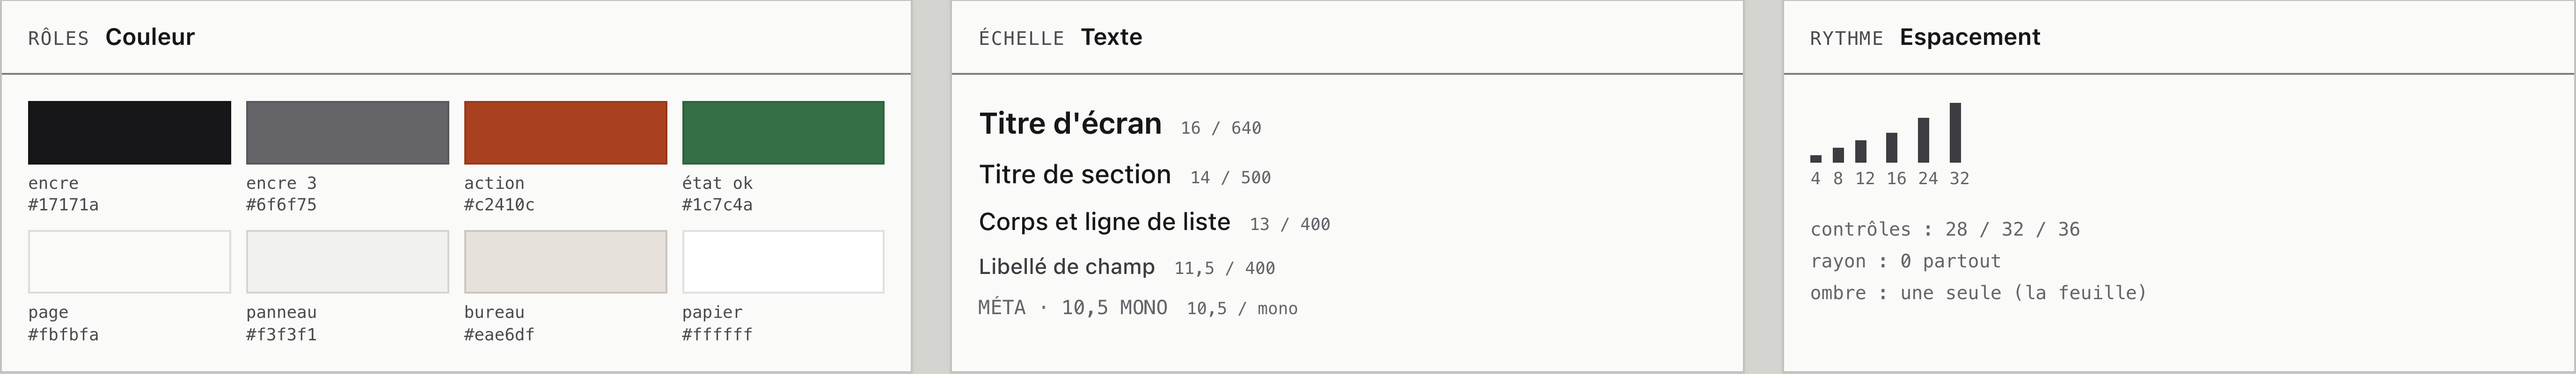
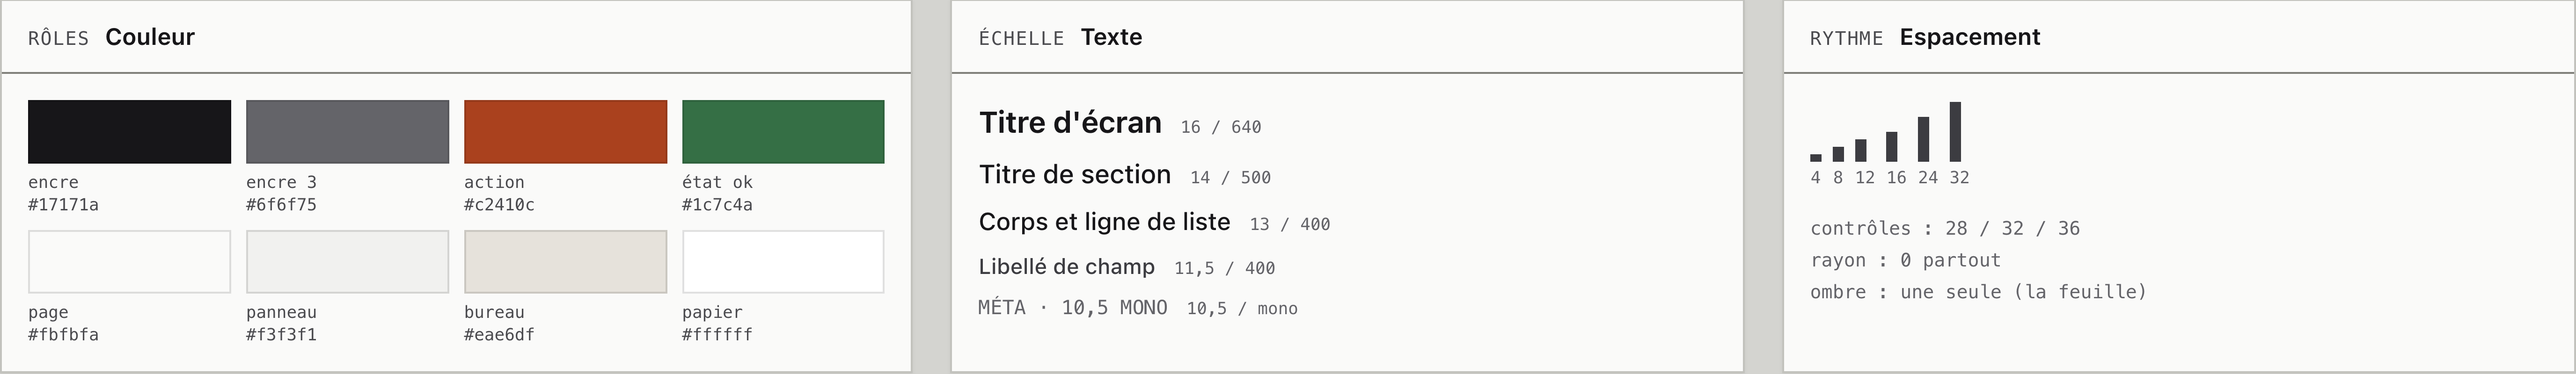
Maquette la capture depuis la barre et explique la note
- Écran 3 : fenêtre 380 × 560 en trois états (page supportée, refusée,
  collection vide), capturer en primaire, confidentialité permanente,
  destructif rangé dans un menu.
- barre-qualite-ui.md §6 : décomposition des points perdus, ancrages,
  et pourquoi la note ne juge pas le travail fourni.

diff --git a/docs/design-options/mockup/console-revisee.html b/docs/design-options/mockup/console-revisee.html
@@ -433,6 +433,102 @@ body {
 }
 .status .mono { font-size: 10px; }
 
+
+/* --- Fenêtre depuis la barre d'outils (380 × 560) --- */
+
+.pops { display: grid; grid-template-columns: repeat(3, 380px); gap: 20px; padding: 16px 32px 0; }
+.pop-wrap { display: flex; flex-direction: column; gap: 8px; }
+.pop-cap { font-size: 12px; color: #45454a; }
+.pop-cap b { color: #17171a; font-weight: 620; }
+.pop {
+  position: relative;
+  width: 380px; height: 560px;
+  display: flex; flex-direction: column;
+  background: var(--bg);
+  border: 1px solid var(--line-strong);
+  box-shadow: 0 1px 2px rgba(0,0,0,.10), 0 16px 34px rgba(0,0,0,.13);
+}
+.pop__bar {
+  display: flex; align-items: center; gap: 8px;
+  height: 48px; padding: 0 10px 0 12px;
+  border-bottom: 1px solid var(--line-strong);
+  flex: none;
+}
+.pop__mark { width: 18px; height: 18px; display: block; }
+.pop__name {
+  display: inline-flex; align-items: center; gap: 4px;
+  height: 26px; padding: 0 4px;
+  border: 1px solid transparent; background: transparent;
+  font: 600 12.5px/1 var(--font); color: var(--ink); cursor: pointer;
+}
+.pop__count {
+  margin-left: auto;
+  height: 20px; padding: 0 7px;
+  display: inline-flex; align-items: center;
+  background: var(--surface-2); color: var(--ink-2);
+  font: 500 10px/1 var(--mono); letter-spacing: .02em;
+}
+.pop__capture {
+  flex: none;
+  display: flex; flex-direction: column; gap: 7px;
+  padding: 11px 12px 12px;
+  border-bottom: 1px solid var(--line-strong);
+}
+.pop__eyebrow { font: 600 9.5px/1 var(--mono); letter-spacing: .09em; color: var(--ink-3); }
+.pop__page { display: flex; flex-direction: column; gap: 1px; min-width: 0; }
+.pop__title {
+  font-size: 12.5px; font-weight: 600; line-height: 1.25;
+  overflow: hidden; text-overflow: ellipsis; white-space: nowrap;
+}
+.pop__url { font: 400 10px/1.3 var(--mono); color: var(--ink-3); overflow: hidden; text-overflow: ellipsis; white-space: nowrap; }
+.pop__acts { display: flex; gap: 6px; }
+.pop__acts .btn--primary { flex: 1; height: 32px; }
+.pop__acts .btn--outline { height: 32px; }
+.pop__notice {
+  display: flex; gap: 8px;
+  padding: 8px 10px;
+  border-left: 2px solid var(--ink);
+  background: var(--surface);
+}
+.pop__notice i { flex: none; width: 14px; height: 14px; margin-top: 1px; color: var(--ink); }
+.pop__notice div { display: flex; flex-direction: column; gap: 2px; }
+.pop__notice b { font-size: 11.5px; font-weight: 620; }
+.pop__notice span { font-size: 10.5px; color: var(--ink-3); line-height: 1.35; }
+.pop__manual { display: flex; gap: 6px; }
+.pop__manual .input { height: 30px; font-size: 11.5px; }
+.pop__manual .btn { height: 30px; flex: none; }
+.pop__manual .pop__iconbtn { width: 32px; padding: 0; }
+.pop__list { flex: 1; min-height: 0; overflow: hidden; }
+.pop__row {
+  display: grid; grid-template-columns: minmax(0, 1fr) auto;
+  align-items: center; gap: 8px;
+  height: 44px; padding: 0 6px 0 12px;
+  border-top: 1px solid var(--line);
+}
+.pop__row:first-child { border-top: 0; }
+.pop__row.is-hover { background: var(--surface); }
+.pop__rowmain { display: flex; flex-direction: column; gap: 1px; min-width: 0; }
+.pop__rowtitle { font-size: 12px; font-weight: 500; overflow: hidden; text-overflow: ellipsis; white-space: nowrap; }
+.pop__rowhost { font: 400 10px/1.2 var(--mono); color: var(--ink-3); overflow: hidden; text-overflow: ellipsis; white-space: nowrap; }
+.pop__row .iconbtn { opacity: 0; }
+.pop__row:hover .iconbtn, .pop__row.is-hover .iconbtn, .pop__row .iconbtn:focus-visible { opacity: 1; }
+.pop__empty {
+  flex: 1; display: flex; flex-direction: column; align-items: center; justify-content: center;
+  gap: 8px; padding: 20px 26px; text-align: center;
+}
+.pop__empty-t { font-size: 13px; font-weight: 620; }
+.pop__empty-b { font-size: 11px; color: var(--ink-3); line-height: 1.4; max-width: 30ch; }
+.pop__empty .btn { height: 30px; }
+.pop__foot {
+  flex: none;
+  display: flex; align-items: center; justify-content: space-between; gap: 8px;
+  height: 40px; padding: 0 10px 0 12px;
+  border-top: 1px solid var(--line-strong);
+}
+.pop__link { font-size: 10.5px; color: var(--ink-3); text-decoration: underline; text-underline-offset: 2px; }
+.pop__promise { font: 400 9.5px/1 var(--mono); color: var(--ink-3); }
+.pop__foot .btn { height: 26px; padding: 0 8px; font-size: 11px; }
+
 /* --- Spécimens et fondations (hors écrans) --- */
 
 .specimens { display: grid; grid-template-columns: repeat(3, 1fr); gap: 20px; padding: 18px 32px 0; }
@@ -495,6 +591,8 @@ body {
     <symbol id="i-plus" viewBox="0 0 16 16"><path d="M8 4v8M4 8h8"/></symbol>
     <symbol id="i-down" viewBox="0 0 16 16"><path d="M8 3v10M4 9l4 4 4-4"/></symbol>
     <symbol id="i-printer" viewBox="0 0 16 16"><path d="M4 6V3h8v3M4 12H3V7h10v5h-1M5 9h6v4H5z"/></symbol>
+    <symbol id="i-arrow-up" viewBox="0 0 16 16"><path d="M5 11L11 5M6 5h5v5"/></symbol>
+    <symbol id="i-info" viewBox="0 0 16 16"><circle cx="8" cy="8" r="6"/><path d="M8 7.2v4M8 4.8v.6"/></symbol>
     <symbol id="i-grip" viewBox="0 0 16 16"><circle cx="6" cy="5" r=".8"/><circle cx="10" cy="5" r=".8"/><circle cx="6" cy="8" r=".8"/><circle cx="10" cy="8" r=".8"/><circle cx="6" cy="11" r=".8"/><circle cx="10" cy="11" r=".8"/></symbol>
   </defs>
 </svg>
@@ -832,6 +930,128 @@ body {
     </ol>
   </section>
 
+
+  <!-- ============================================================ -->
+  <!-- ÉCRAN 3 — FENÊTRE DEPUIS LA BARRE                            -->
+  <!-- ============================================================ -->
+  <section class="spec">
+    <div class="spec__caption">
+      <span class="spec__num">ÉCRAN 3 / 3</span>
+      <span class="spec__title">La capture depuis la barre — fenêtre 380 × 560 <small>· page supportée, page refusée, collection vide</small></span>
+    </div>
+
+    <p class="page__lead" style="padding:10px 32px 0;font-size:12px;color:#45454a;max-width:110ch">
+      Le cadre montre la fenêtre à sa taille <b>maximale</b> (380 × 560) : dans Chrome, une fenêtre d'extension se dimensionne à son contenu, donc un état à six liens serait plus court. Les trois états sont rendus au même cadre pour être comparés.
+    </p>
+
+    <div class="pops">
+
+      <!-- A. Page supportée -->
+      <div class="pop-wrap">
+        <div class="pop-cap"><b>A — Page supportée.</b> Le geste par défaut : capturer.</div>
+        <div class="pop" id="pop-a">
+          <div class="pop__bar">
+            <img class="pop__mark" src="../../../src/extension-src/icons/icon-32.png" width="18" height="18" alt="">
+            <button class="pop__name">Mes liens <svg class="i i--12"><use href="#i-chevron"/></svg></button>
+            <span class="pop__count mono">6 liens</span>
+          </div>
+          <div class="pop__capture">
+            <span class="pop__eyebrow">PAGE COURANTE</span>
+            <span class="pop__page">
+              <span class="pop__title">Un article de fond sur la question</span>
+              <span class="pop__url">exemple.fr/un-article-assez-long-pour-compter</span>
+            </span>
+            <div class="pop__acts">
+              <button class="btn btn--primary">Ajouter cette page <kbd>⌘↵</kbd></button>
+              <button class="btn btn--outline">Application <svg class="i i--12"><use href="#i-arrow-up"/></svg></button>
+            </div>
+          </div>
+          <div class="pop__list" id="pop-list-a"></div>
+          <div class="pop__foot">
+            <a class="pop__link" href="#">Confidentialité</a>
+            <button class="btn btn--quiet">Exporter <svg class="i i--12"><use href="#i-chevron"/></svg></button>
+          </div>
+        </div>
+      </div>
+
+      <!-- B. Page refusée -->
+      <div class="pop-wrap">
+        <div class="pop-cap"><b>B — Page refusée.</b> Une cause, un chemin manuel, des actions vivantes.</div>
+        <div class="pop" id="pop-b">
+          <div class="pop__bar">
+            <img class="pop__mark" src="../../../src/extension-src/icons/icon-32.png" width="18" height="18" alt="">
+            <button class="pop__name">Mes liens <svg class="i i--12"><use href="#i-chevron"/></svg></button>
+            <span class="pop__count mono">6 liens</span>
+          </div>
+          <div class="pop__capture">
+            <span class="pop__eyebrow">PAGE COURANTE</span>
+            <div class="pop__notice">
+              <svg class="i"><use href="#i-info"/></svg>
+              <div>
+                <b>Cette page ne peut pas être enregistrée.</b>
+                <span>Les pages internes du navigateur ne sont pas lisibles par l'extension.</span>
+              </div>
+            </div>
+            <div class="pop__manual">
+              <input class="input" placeholder="Coller un lien…" aria-label="Coller un lien">
+              <button class="btn btn--primary">Ajouter</button>
+              <button class="btn btn--outline pop__iconbtn" aria-label="Ouvrir l'application" title="Ouvrir l'application">
+                <svg class="i i--12"><use href="#i-arrow-up"/></svg>
+              </button>
+            </div>
+          </div>
+          <div class="pop__list" id="pop-list-b"></div>
+          <div class="pop__foot">
+            <a class="pop__link" href="#">Confidentialité</a>
+            <button class="btn btn--quiet">Exporter <svg class="i i--12"><use href="#i-chevron"/></svg></button>
+          </div>
+        </div>
+      </div>
+
+      <!-- C. Collection vide -->
+      <div class="pop-wrap">
+        <div class="pop-cap"><b>C — Collection vide.</b> Une action de sortie, pas un cul-de-sac.</div>
+        <div class="pop" id="pop-c">
+          <div class="pop__bar">
+            <img class="pop__mark" src="../../../src/extension-src/icons/icon-32.png" width="18" height="18" alt="">
+            <button class="pop__name">Mes liens <svg class="i i--12"><use href="#i-chevron"/></svg></button>
+            <span class="pop__count mono">0 lien</span>
+          </div>
+          <div class="pop__capture">
+            <span class="pop__eyebrow">PAGE COURANTE</span>
+            <span class="pop__page">
+              <span class="pop__title">Un article de fond sur la question</span>
+              <span class="pop__url">exemple.fr/un-article-assez-long-pour-compter</span>
+            </span>
+            <div class="pop__acts">
+              <button class="btn btn--primary">Ajouter cette page <kbd>⌘↵</kbd></button>
+              <button class="btn btn--outline">Application <svg class="i i--12"><use href="#i-arrow-up"/></svg></button>
+            </div>
+          </div>
+          <div class="pop__empty">
+            <span class="pop__empty-t">Votre premier lien apparaîtra ici</span>
+            <span class="pop__empty-b">Capturez une page depuis la barre, ou ouvrez l'application pour importer une archive.</span>
+            <button class="btn btn--outline">Importer une archive</button>
+          </div>
+          <div class="pop__foot">
+            <a class="pop__link" href="#">Confidentialité</a>
+            <span class="pop__promise">Aucune donnée envoyée</span>
+          </div>
+        </div>
+      </div>
+
+    </div>
+
+    <ol class="notes">
+      <li><span class="notes__n">1</span><span><b>Capturer est l'action primaire.</b> Un seul orange : « Ajouter cette page ». « Application » reste un secondaire de contour — on quitte la fenêtre pour un travail plus long, on n'y est pas poussé.</span></li>
+      <li><span class="notes__n">2</span><span><b>La page refusée n'est plus une impasse.</b> La cause est écrite, le collage manuel est à portée, les actions restent vivantes : plus d'écran à un seul arrêt de tabulation.</span></li>
+      <li><span class="notes__n">3</span><span><b>La collection vide propose une sortie.</b> Un texte, puis « Importer une archive » ; les exports sans objet disparaissent, et « Vider » n'est plus offert sur du vide.</span></li>
+      <li><span class="notes__n">4</span><span><b>La confidentialité est permanente.</b> Le lien est dans le pied, à chaque état — il ne disparaît plus avec le bandeau de consentement.</span></li>
+      <li><span class="notes__n">5</span><span><b>Le destructif est rangé.</b> Les exports et « Vider la collection » passent dans un menu « Exporter », avec confirmation pour le vidage, au lieu d'un bouton nu à côté de « Markdown ».</span></li>
+      <li><span class="notes__n">6</span><span><b>Une seule zone de défilement.</b> La liste défile (44 px par ligne, × de 24 px), le pied reste fixe ; plus de chevrons de collection non étiquetés — le nom ouvre le menu.</span></li>
+    </ol>
+  </section>
+
   <!-- ============================================================ -->
   <!-- SPÉCIMENS D'ÉTATS                                            -->
   <!-- ============================================================ -->
@@ -1069,6 +1289,23 @@ function rendreFeuille() {
 rendreListe('rows-1', 6, false);
 rendreListe('rows-2', 6, false);
 rendreFeuille();
+
+function rendrePopup() {
+  const lignes = LIENS.slice(1, 7).map(([titre, host], i) => `
+    <div class="pop__row${i === 1 ? ' is-hover' : ''}">
+      <span class="pop__rowmain">
+        <span class="pop__rowtitle">${titre}</span>
+        <span class="pop__rowhost mono">${host}</span>
+      </span>
+      <button class="iconbtn" aria-label="Retirer ce lien"><svg class="i i--12"><use href="#i-close"/></svg></button>
+    </div>`).join('');
+  for (const id of ['pop-list-a', 'pop-list-b']) {
+    const el = document.getElementById(id);
+    if (el) el.innerHTML = lignes;
+  }
+}
+rendrePopup();
+
 document.querySelectorAll('.qr[data-qr]').forEach((el) => {
   el.innerHTML = qrSvg(Number(el.dataset.qr) * 97 + 11);
 });

diff --git a/docs/design-options/barre-qualite-ui.md b/docs/design-options/barre-qualite-ui.md
@@ -97,3 +97,41 @@ Trois garde-fous, appris du produit lui-même (l'audit WCAG annonçait 28 × 28 
 1. **Toute note > 4 doit être justifiée par une mesure du rendu**, jamais par une intention de code. Une règle CSS présente n'est pas un défaut corrigé.
 2. **Toute dimension en hausse doit avoir sa capture** dans le dossier de l'itération, au même état que la capture de référence.
 3. **À chaque itération, chercher un défaut, pas une confirmation.** Le rôle de l'audit sévère est de tenir ce rôle, même quand tout va mieux.
+
+---
+
+## 6. Pourquoi une note basse n'est pas un jugement sur le travail
+
+La question revient à chaque audit : le produit est soigné, testé, documenté — comment peut-il valoir 2,3 ? La réponse tient en une phrase : **le barème ne note pas l'effort, il note ce que la personne devant l'écran obtient.** Un moteur d'impression excellent qui reste invisible ne rend service qu'à moitié.
+
+### Où les points se perdent (version 0.4.0)
+
+| Groupe | Dimensions | Poids | Obtenu | Note du groupe |
+|---|---|---|---|---|
+| Lire et comprendre | clarté (12), architecture (12), densité (10), marque (10), charge cognitive (10) | **54** | 114 / 270 | **2,1** |
+| Système et états | composants (8), états (10), affordance (8), finition (2) | 28 | 70,6 / 140 | 2,5 |
+| Accessibilité et adaptation | accessibilité (10), responsive (4) | 14 | 37 / 70 | 2,6 |
+| Ton et texte | microcopy (4) | 4 | 10,4 / 20 | 2,6 |
+
+**54 points sur 100** portent sur la lecture de l'écran — et c'est là que se concentre la perte : 156 des 268 points manquants. Le socle d'ingénierie, lui, n'apparaît que dans l'accessibilité et la finition (14 points au total). C'est volontaire : un audit qui récompenserait le travail réalisé masquerait exactement le problème à corriger (l'aperçu hors écran, la hiérarchie absente), et la refonte ne partirait pas.
+
+### Ce que la note ne dit pas
+
+- Elle ne dit pas que le produit est cassé : il fonctionne, il est testé (1 088 tests), il est accessible au-delà de la moyenne, et sa fenêtre vaut **3,1 / 5** à elle seule.
+- Elle ne dit pas que le travail est vain : elle dit que **la couche qui donne envie et qui évite l'effort n'a jamais été dessinée**.
+- Elle n'est pas absolue : l'audit source de l'application, avec d'autres poids, conclut 2,6 ; un barème qui pèserait l'ingénierie donnerait ~3,5. Ce barème-ci est celui de la cible 4,8, donc il est sévère par construction.
+
+### Les ancrages
+
+| Note | Ce que ça veut dire |
+|---|---|
+| 2,0 | Utilisable, mais rebutant : on s'en sert par obligation. |
+| 2,3 | **Ici.** Tout fonctionne ; le résultat n'est pas visible, et l'écran demande un effort constant. |
+| 3,0 | Outil correct d'ingénieur : on comprend où l'on est, on voit ce qu'on fait. |
+| 4,0 | Outil qu'on montre : la structure et le système tiennent, la marque commence. |
+| 4,8 | On ne remarque plus l'interface tant elle fait ce qu'on attend. |
+
+### Ce que deux paliers suffisent à changer
+
+- **I0 (correctifs)** : les défauts qui coûtent une erreur disparaissent → 2,5. La note ne bouge presque pas, parce que le dessin n'a pas bougé. C'est normal : I0 protège, il ne séduit pas.
+- **I1 (structure)** : l'aperçu visible, un seul primaire, moins de contrôles, des états vides qui agissent → **3,1**. C'est le premier saut ressenti, et il ne touche ni la couleur ni la typographie.

diff --git a/docs/design-options/mockup/LISEZ-MOI.md b/docs/design-options/mockup/LISEZ-MOI.md
@@ -18,15 +18,16 @@ c'est une proposition à valider, pas une livraison.
 |---|---|
 | Écran 1 — mode Planche | Trois zones : collection (340 px), feuille sur bureau (flexible), inspecteur (304 px). La feuille est visible en permanence, à l'échelle, avec ses repères de coupe et son format écrit dessous. |
 | Écran 2 — mode Niimbot | Même châssis, autre surface : une étiquette cotée (22 × 12 mm), l'imprimante comme **état** en tête d'inspecteur, et un contenu d'étiquette réduit à quatre cases. |
+| Écran 3 — fenêtre depuis la barre | 380 × 560, même langage : capturer est l'action primaire, « Application » un secondaire ; trois états — page supportée, page refusée (cause + collage manuel), collection vide (action de sortie). Confidentialité permanente, exports dans un menu, destructif rangé. |
 | Spécimens | Collection vide, sélection active, série en cours : les trois états qui doivent devenir évidents. |
 | Fondations | Rôles de couleur, échelle typographique, échelle d'espacement, contrôles 28/32/36, rayon 0, une seule ombre. |
 
 ## Ce qui n'est **pas** dans la maquette (volontairement)
 
-Mode sombre, états de focus détaillés, fenêtre 380 px, panneau d'import,
-onboarding, mouvement, mode Tableau et mode Images au-delà de l'onglet. Ces
-sujets viennent en I2 (système, thèmes, focus), I3 (import) et I4 (canvas), et
-seront maquettés au moment de leur palier.
+Mode sombre, états de focus détaillés, panneau d'import complet, onboarding,
+mouvement, mode Tableau et mode Images au-delà de l'onglet. Ces sujets viennent
+en I2 (système, thèmes, focus), I3 (import) et I4 (canvas), et seront maquettés
+au moment de leur palier.
 
 ## Les six décisions à valider (recommandation entre parenthèses)
 
@@ -45,10 +46,15 @@ Elles se tranchent dans le ticket GitHub **#12** (`[Cadrage] Valider la maquette
    repos. (Recommandé : oui, avec le spécimen « sélection » comme état de repli.)
 6. **Le bloc RÉSUMÉ dans l'inspecteur** — feuille, places, pages. (Recommandé :
    oui, il évite d'aller chercher l'information dans le canvas.)
+7. **La fenêtre parle le même langage** — capturer en primaire, l'application en
+   secondaire, la confidentialité permanente, le destructif rangé dans un menu.
+   (Recommandé : oui, une fenêtre n'est pas un second produit.)
 
 ## Après validation
 
 Le palier **I0 (correctifs)** ne dépend pas de ces décisions et peut être livré
-avant. **I1 (structure)** implémente ces deux écrans avec les jetons réels du
-produit, puis rejoue la matrice de captures et le barème
-(`../barre-qualite-ui.md`) pour vérifier la note cible : **3,1 / 5**.
+avant. **I1 (structure)** implémente les deux écrans de l'application avec les
+jetons réels du produit, puis rejoue la matrice de captures et le barème
+(`../barre-qualite-ui.md`) pour vérifier la note cible : **3,1 / 5**. La fenêtre
+suit dans le même palier : ses trois états sont une régression interdite
+(impasse, double défilement, destructif nu).
